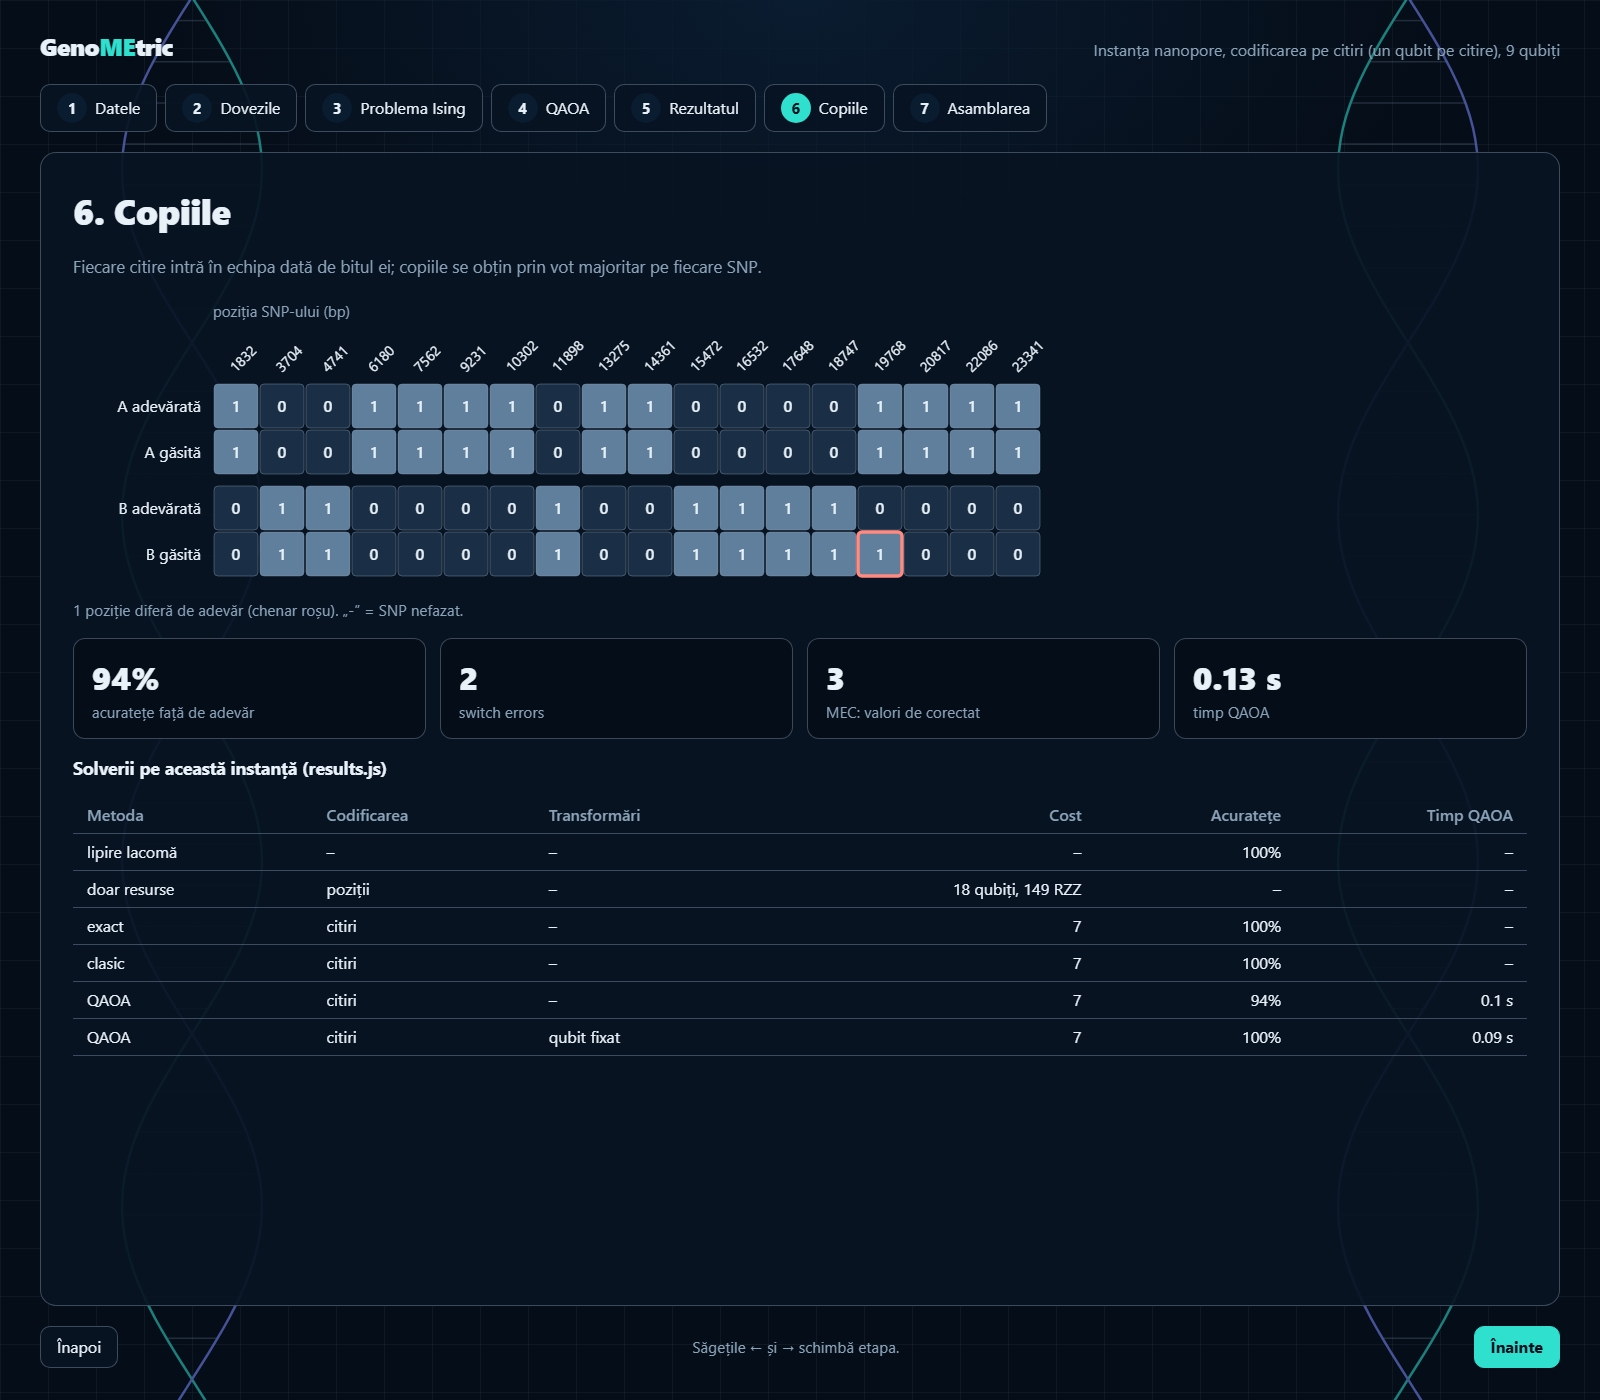
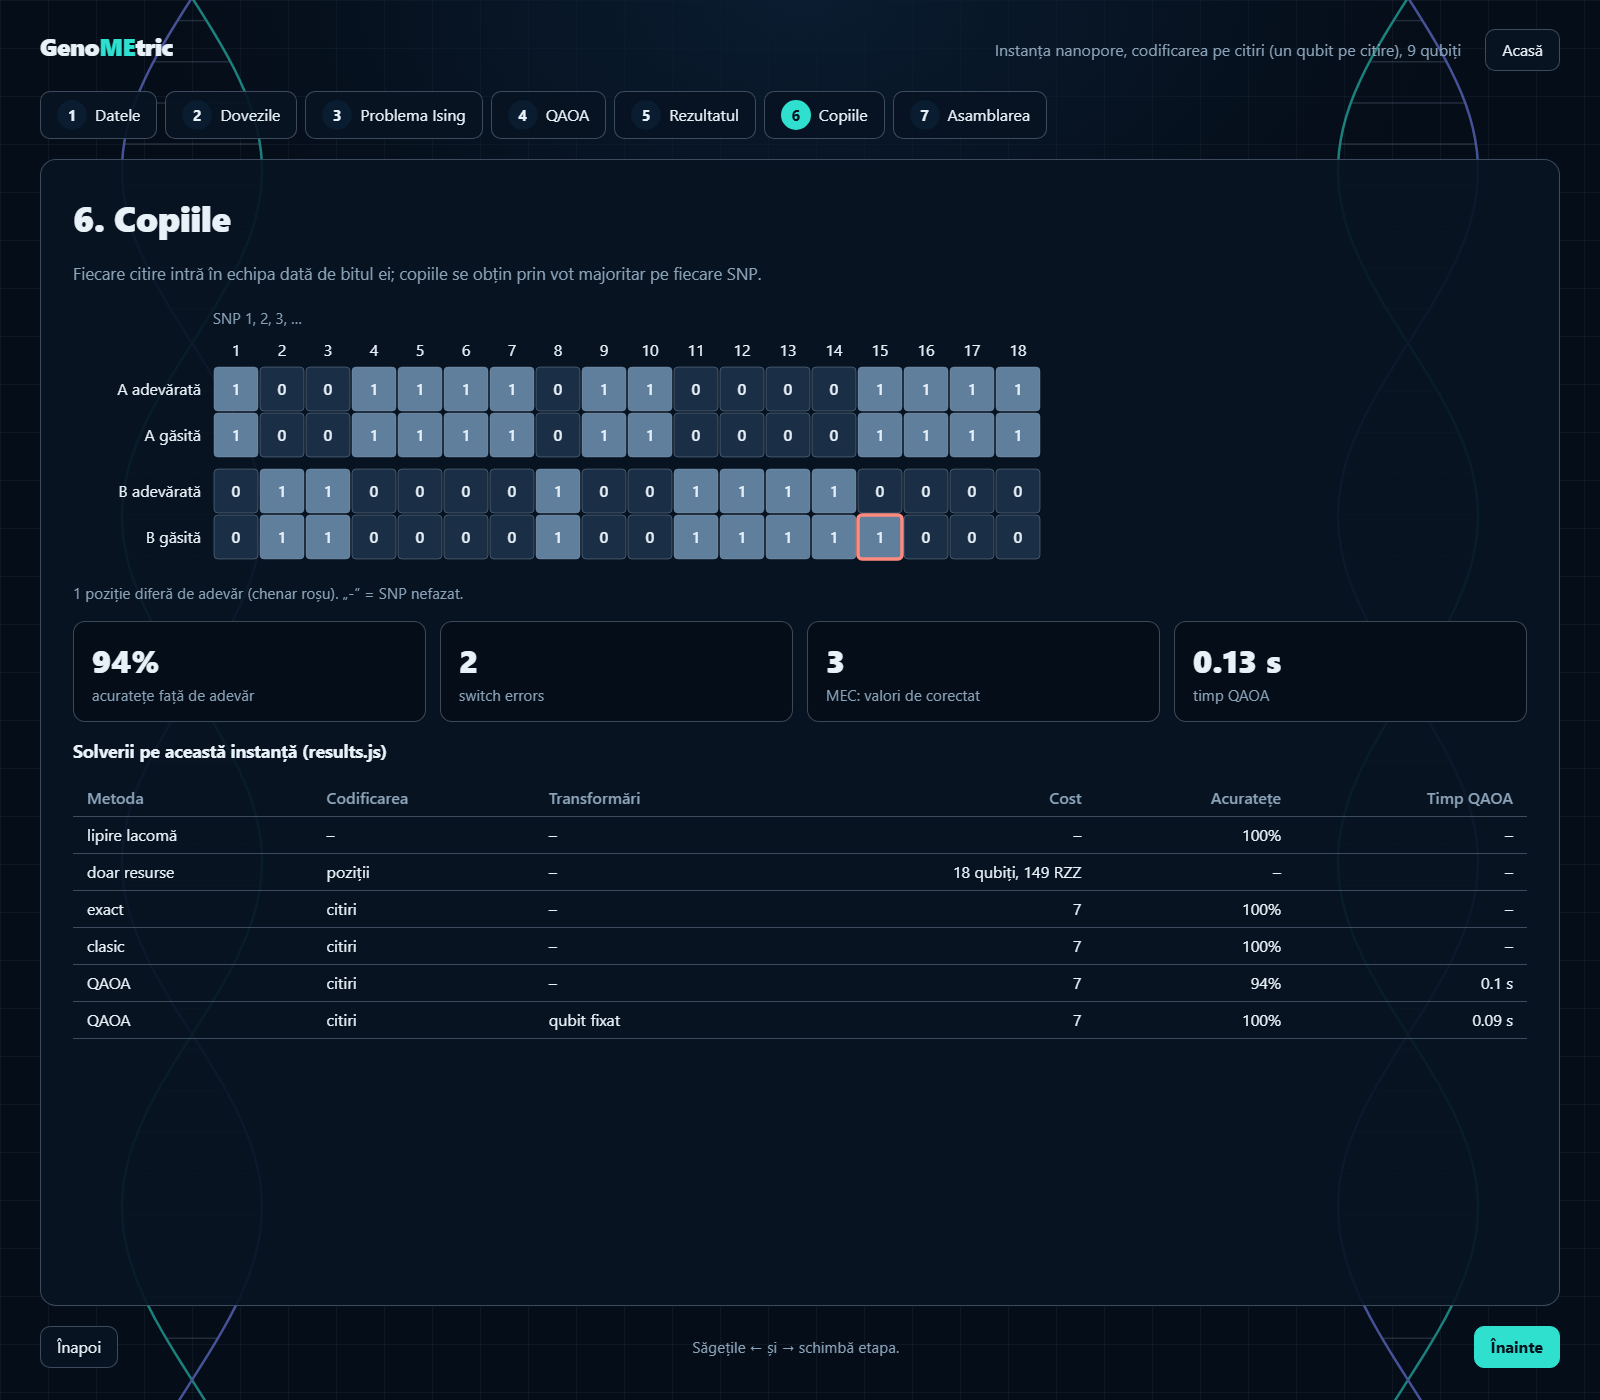
interface: buton Acasa catre ecranul de incarcare; SNP-uri numerotate de la 1 peste tot, inclusiv in graf

diff --git a/neuroq/interface/steps.js b/neuroq/interface/steps.js
@@ -23,6 +23,16 @@
     app().hidden = visible;
   }
 
+  // Acasă: înapoi la ecranul de încărcare al paginii, ca să se poată alege alt fișier.
+  function goHome() {
+    NeuroQ.player.stopAll();
+    state.stage = null;
+    showUpload(true);
+    window.scrollTo(0, 0);
+    var input = document.getElementById('file');
+    if (input) input.focus();
+  }
+
   function message(title, lines) {
     var root = app();
     root.textContent = '';
@@ -30,7 +40,7 @@
     S.html('h2', {}, box, title);
     lines.forEach(function (line) { S.html('p', {}, box, line); });
     var back = S.html('button', { type: 'button', class: 'primary' }, box, 'Încarcă alt fișier');
-    back.addEventListener('click', function () { showUpload(true); });
+    back.addEventListener('click', goHome);
     showUpload(false);
     back.focus();
   }
@@ -78,6 +88,9 @@
     brand.appendChild(document.createTextNode('tric'));
     S.html('div', { class: 'nq-meta' }, head, 'Instanța ' + stage.metadata.instance + ', codificarea ' +
       ENCODINGS[stage.metadata.encoding] + ', ' + stage.metadata.n_qubits + ' qubiți');
+    var home = S.html('button', { type: 'button', class: 'nq-home',
+                                  title: 'Înapoi la ecranul principal, pentru alt fișier' }, head, 'Acasă');
+    home.addEventListener('click', goHome);
 
     var list = S.html('ol', { class: 'nq-steps', 'aria-label': 'Etapele' }, root);
     STEPS.forEach(function (key, i) {
@@ -102,11 +115,11 @@
     var prev = S.html('button', { type: 'button' }, nav, 'Înapoi');
     S.html('span', { class: 'nq-hint' }, nav, 'Săgețile ← și → schimbă etapa.');
     var next = S.html('button', { type: 'button', class: 'primary' }, nav,
-      state.index === STEPS.length - 1 ? 'Încarcă alt fișier' : 'Înainte');
+      state.index === STEPS.length - 1 ? 'Acasă: încarcă alt fișier' : 'Înainte');
     prev.disabled = state.index === 0;
     prev.addEventListener('click', function () { go(state.index - 1); });
     next.addEventListener('click', function () {
-      if (state.index === STEPS.length - 1) { showUpload(true); return; }
+      if (state.index === STEPS.length - 1) { goHome(); return; }
       go(state.index + 1);
     });
   }

diff --git a/neuroq/interface/util/svg.js b/neuroq/interface/util/svg.js
@@ -87,19 +87,13 @@
     return points;
   }
 
-  // Exemplul din notebook are poziții implicite (1000, 2000, ...), nu coordonate reale.
-  function usesIndexAxis(stage) {
-    return stage.metadata.instance === 'notebook';
-  }
-
+  // SNP-urile se numerotează de la 1 pe toate instanțele (fără coordonate în bp).
   function snpLabels(stage) {
-    return stage.evidence.snp_positions_bp.map(function (bp, i) {
-      return usesIndexAxis(stage) ? String(i + 1) : String(bp);
-    });
+    return stage.evidence.snp_ids.map(function (_, i) { return String(i + 1); });
   }
 
-  function snpAxisTitle(stage) {
-    return usesIndexAxis(stage) ? 'SNP 1, 2, 3, …' : 'poziția SNP-ului (bp)';
+  function snpAxisTitle() {
+    return 'SNP 1, 2, 3, …';
   }
 
   // Etichetele variabilelor (qubiților): SNP-uri sau citiri, după codificare.
@@ -114,7 +108,7 @@
 
   NeuroQ.svg = {
     el: el, text: text, root: root, html: html, fmt: fmt, heatmap: heatmap,
-    circleLayout: circleLayout, usesIndexAxis: usesIndexAxis, snpLabels: snpLabels,
+    circleLayout: circleLayout, snpLabels: snpLabels,
     snpAxisTitle: snpAxisTitle, variableLabels: variableLabels, readLabels: readLabels
   };
 })();

diff --git a/neuroq/interface/app.css b/neuroq/interface/app.css
@@ -41,7 +41,7 @@ main[hidden]{display:none}
 .nq-head{display:flex; flex-wrap:wrap; align-items:baseline; justify-content:space-between; gap:12px 24px}
 .nq-head .nq-brand{font-size:1.5rem; font-weight:800; letter-spacing:-.02em}
 .nq-head .nq-brand span{color:var(--accent)}
-.nq-head .nq-meta{color:var(--muted); font-size:1rem}
+.nq-head .nq-meta{color:var(--muted); font-size:1rem; flex:1; text-align:right}
 
 .nq-steps{display:flex; flex-wrap:wrap; gap:8px; margin:0; padding:0; list-style:none}
 .nq-steps button{display:flex; align-items:center; gap:8px; padding:6px 14px 6px 6px; border-radius:999px}

diff --git a/neuroq/interface/views/graph.js b/neuroq/interface/views/graph.js
@@ -50,7 +50,7 @@
         var bit = bits ? bits[i] : null;
         S.el('circle', { cx: p.x, cy: p.y, r: NODE, fill: nodeFill(stage, bit), stroke: C.ink,
                          'stroke-width': 1.5 }, svg);
-        S.text(svg, p.x, p.y + 5, labels[i].length > 4 ? 'S' + (i + 1) : labels[i], {
+        S.text(svg, p.x, p.y + 5, labels[i], {
           'font-size': 14, 'text-anchor': 'middle', 'font-weight': 700,
           fill: bit === 1 && stage.metadata.encoding === 'position' ? C.bit1Ink : C.ink
         });
